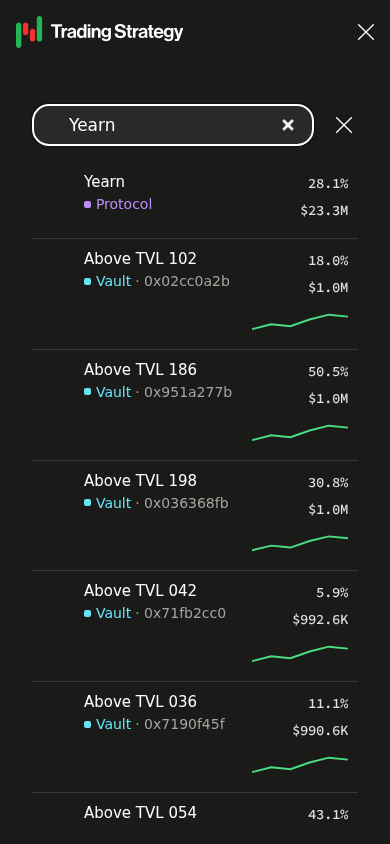
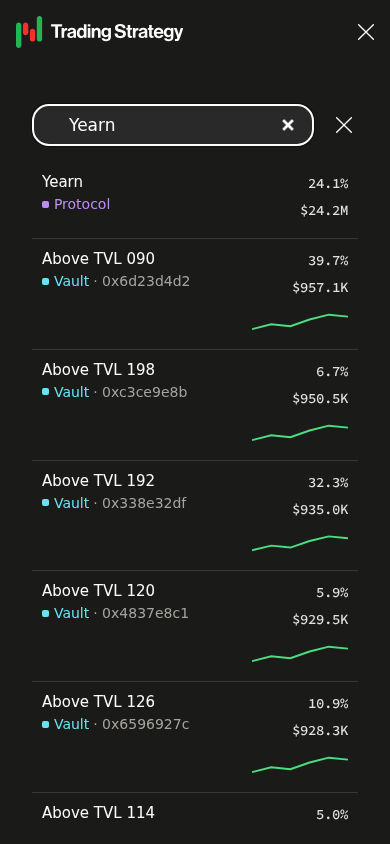
fix: align search result content

diff --git a/src/lib/search/components/Search.svelte b/src/lib/search/components/Search.svelte
@@ -238,7 +238,7 @@ underlying vault JSON index private.
 				</button>
 			</div>
 
-			<div class="results" aria-live="polite">
+			<div class="results" aria-live="polite" data-testid="entity-search-results">
 				{#if loading}
 					<p>Searching…</p>
 				{:else if errorMessage}
@@ -252,6 +252,7 @@ underlying vault JSON index private.
 								<a
 									id={`${listboxId}-${index}`}
 									class:active={selectedIndex === index}
+									class:no-logo={!result.logoUrl}
 									data-entity-type={result.entityType}
 									href={result.href}
 									role="option"
@@ -259,9 +260,7 @@ underlying vault JSON index private.
 									onpointerdown={(event) => event.preventDefault()}
 									onclick={closeSearchForNavigation}
 								>
-									<span class="logo-slot">
-										{#if result.logoUrl}<img src={result.logoUrl} alt="" use:removeOnError />{/if}
-									</span>
+									<span class="logo-slot">{#if result.logoUrl}<img src={result.logoUrl} alt="" use:removeOnError />{/if}</span>
 									<span class="result-main">
 										<strong class:blacklisted={result.entityType === 'blacklisted-vault'}>{result.name}</strong>
 										<span class="type">
@@ -278,7 +277,9 @@ underlying vault JSON index private.
 										{/if}
 									</span>
 									<span class="metrics"
-										><span>{formatApy(result.averageApy1m)}</span><span>{formatTvl(result.latestTvl)}</span></span
+										><span aria-label="1 month APY">{formatApy(result.averageApy1m)}</span><span aria-label="Latest TVL"
+											>{formatTvl(result.latestTvl)}</span
+										></span
 									>
 								</a>
 							</li>
@@ -384,6 +385,13 @@ underlying vault JSON index private.
 		border-radius: var(--radius-sm);
 		color: inherit;
 		text-decoration: none;
+	}
+<<<<<<< HEAD
+	li a:is(.no-logo, :has(.logo-slot:not(:has(img)))) {
+		grid-template-columns: minmax(0, 1fr) auto;
+	}
+	li a:is(.no-logo, :has(.logo-slot:not(:has(img)))) .logo-slot {
+		display: none;
 	}
 	li a:is(:hover, :focus-visible, .active) {
 		outline: none;
@@ -555,6 +563,13 @@ underlying vault JSON index private.
 				'. . sparkline';
 			align-items: start;
 			row-gap: var(--space-xs);
+		}
+<<<<<<< HEAD
+		.dialog li a:is(.no-logo, :has(.logo-slot:not(:has(img)))) {
+			grid-template-columns: minmax(0, 1fr) max-content;
+			grid-template-areas:
+				'main metrics'
+				'. sparkline';
 		}
 		.dialog .logo-slot {
 			grid-area: logo;

diff --git a/tests/integration/navigation.test.ts b/tests/integration/navigation.test.ts
@@ -82,6 +82,9 @@ test.describe('navigation entity search', () => {
 			const protocolResults = await searchFromNavigation(page, 'Yearn');
 			await expect(protocolResults.getByRole('option').first()).toHaveAttribute('data-entity-type', 'protocol');
 			await expect(protocolResults.getByRole('option').first()).toContainText('Yearn');
+			if (name === 'iPad landscape') {
+				await expect(protocolResults.getByRole('option').first()).toHaveClass(/no-logo/);
+			}
 
 			const search = page.getByRole('combobox', { name: searchName });
 			await search.fill('Savings USDS');
@@ -96,6 +99,7 @@ test.describe('navigation entity search', () => {
 			if (name === 'iPad landscape') {
 				const resultListBounds = await protocolResults.getByRole('listbox').boundingBox();
 				const searchBounds = await search.boundingBox();
+				const logoBounds = await vaultResult.locator('.logo-slot').boundingBox();
 				const vaultNameBounds = await vaultResult.locator('.result-main').boundingBox();
 				const vaultSparklineBounds = await vaultResult.locator('.result-sparkline').boundingBox();
 				const vaultMetricsBounds = await vaultResult.locator('.metrics').boundingBox();
@@ -107,6 +111,11 @@ test.describe('navigation entity search', () => {
 				expect(vaultNameBounds).not.toBeNull();
 				expect(vaultSparklineBounds).not.toBeNull();
 				expect(vaultMetricsBounds).not.toBeNull();
+				const leftContentBounds = logoBounds ?? vaultNameBounds!;
+				const leftInset = leftContentBounds.x - resultListBounds!.x;
+				const rightInset =
+					resultListBounds!.x + resultListBounds!.width - (vaultMetricsBounds!.x + vaultMetricsBounds!.width);
+				expect(Math.abs(leftInset - rightInset)).toBeLessThanOrEqual(1);
 				expect(vaultSparklineBounds!.y - vaultNameBounds!.y).toBeLessThan(32);
 				expect(vaultMetricsBounds!.y - vaultNameBounds!.y).toBeLessThan(32);
 			}
